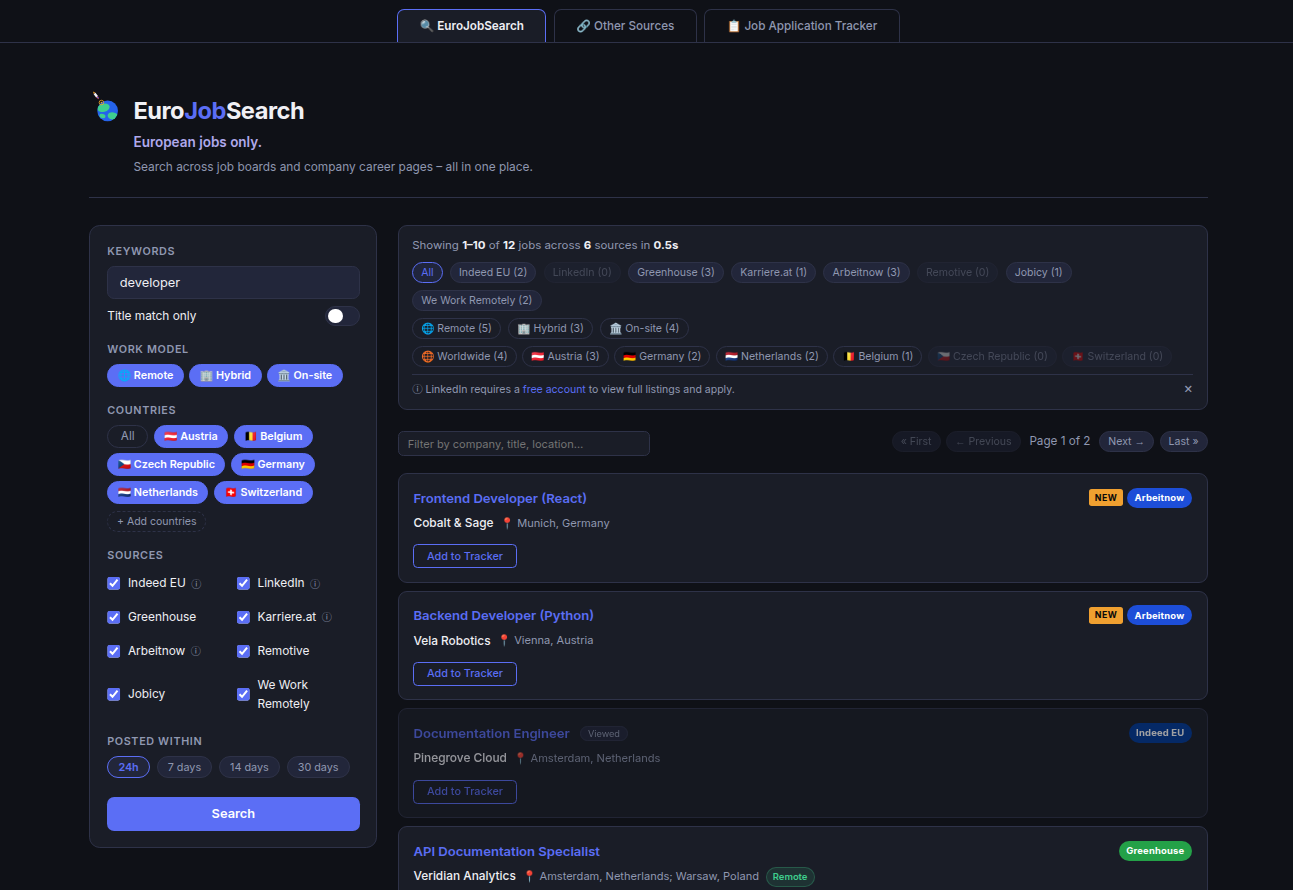
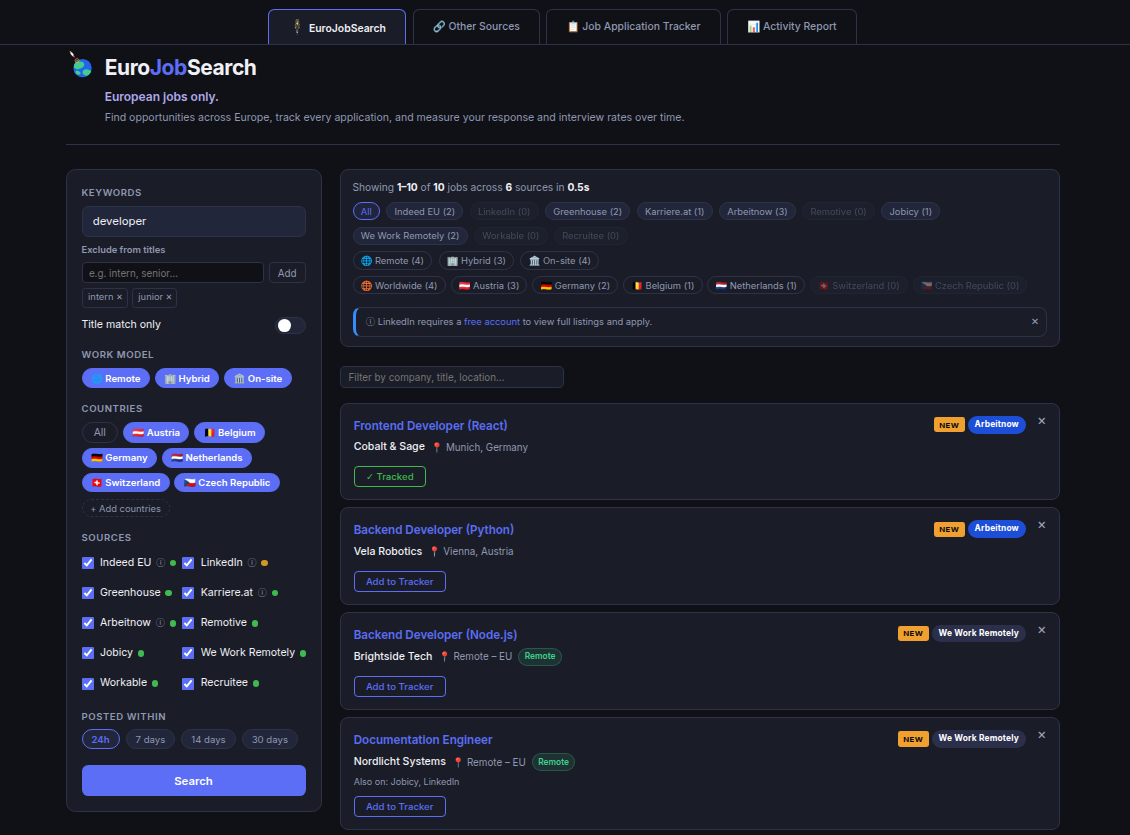
Updated EuroJobSearch based on new functionalities

diff --git a/index.html b/index.html
@@ -535,7 +535,7 @@
         <div class="img-wrap"><img class="proj-img" src="assets/eurojobsearch.png" alt="EuroJobSearch screenshot" loading="lazy"><span class="img-zoom-icon"><svg viewBox="0 0 24 24" fill="none" stroke-width="2" stroke-linecap="round" stroke-linejoin="round"><path d="M8 3H5a2 2 0 0 0-2 2v3"/><path d="M21 8V5a2 2 0 0 0-2-2h-3"/><path d="M3 16v3a2 2 0 0 0 2 2h3"/><path d="M16 21h3a2 2 0 0 0 2-2v-3"/></svg></span></div>
         <div class="what-num">[01]</div>
         <div class="what-title"><a href="https://github.com/teokitten/eurojobsearch" target="_blank" rel="noopener noreferrer">EuroJobSearch</a></div>
-        <p class="what-body">Aggregates job listings from eight European sources into one deduplicated, filterable view, searchable by keyword, with each listing tagged remote, hybrid, or onsite. Includes a built-in application tracker.</p>
+        <p class="what-body">Aggregates job listings from ten European sources into one deduplicated, filterable view, tagged remote, hybrid, or onsite. Includes an application tracker with an activity dashboard for interview and response rates.</p>
         <div class="proj-links">
           <a href="https://teokitten.github.io/eurojobsearch" target="_blank" rel="noopener noreferrer">Try it →</a>
         </div>
@@ -607,10 +607,10 @@
       <div class="case-card reveal">
         <div class="case-n">case_01.md</div>
         <h3 class="case-title">EuroJobSearch</h3>
-        <span class="case-tag">8 sources, one format</span>
-        <p class="case-problem">Eight job sources return eight different shapes of data – different fields, formats, and inconsistent or missing location text. EuroJobSearch pulls all of it into one consistent format, filters out duplicate postings across sources, and works out whether a job is remote, hybrid, or onsite even when the listing doesn't say so directly.</p>
-        <p class="case-problem">Search matches comma-separated keywords at once, with filtering by country. New postings get flagged so you're not re-reading the same listings every day. A built-in application tracker rounds it out – save jobs, track status from applied to offer, and export everything as proof of your job search.</p>
-        <div class="img-wrap img-wrap--case"><img class="case-img" src="assets/eurojobsearch.png" alt="EuroJobSearch application tracker view" loading="lazy"><span class="img-zoom-icon"><svg viewBox="0 0 24 24" fill="none" stroke-width="2" stroke-linecap="round" stroke-linejoin="round"><path d="M8 3H5a2 2 0 0 0-2 2v3"/><path d="M21 8V5a2 2 0 0 0-2-2h-3"/><path d="M3 16v3a2 2 0 0 0 2 2h3"/><path d="M16 21h3a2 2 0 0 0 2-2v-3"/></svg></span></div>
+        <span class="case-tag">10 sources, one format</span>
+        <p class="case-problem">Ten job sources return ten different shapes of data – different fields, formats, and inconsistent or missing location text. EuroJobSearch pulls all of it into one consistent format, filters out duplicate postings across sources, and works out whether a job is remote, hybrid, or onsite even when the listing doesn't say so directly.</p>
+        <p class="case-problem">Search matches comma-separated keywords at once, with filtering by country. New postings get flagged so you're not re-reading the same listings every day. A built-in application tracker rounds it out – save jobs, track status from applied to offer, log individual interview rounds, and export everything as proof of your job search. An activity dashboard turns that history into interview and response rates over time.</p>
+        <div class="img-wrap img-wrap--case"><img class="case-img" src="assets/eurojobsearch-case.png" alt="EuroJobSearch application tracker view" loading="lazy"><span class="img-zoom-icon"><svg viewBox="0 0 24 24" fill="none" stroke-width="2" stroke-linecap="round" stroke-linejoin="round"><path d="M8 3H5a2 2 0 0 0-2 2v3"/><path d="M21 8V5a2 2 0 0 0-2-2h-3"/><path d="M3 16v3a2 2 0 0 0 2 2h3"/><path d="M16 21h3a2 2 0 0 0 2-2v-3"/></svg></span></div>
       </div>
 
       <div class="case-card reveal">
